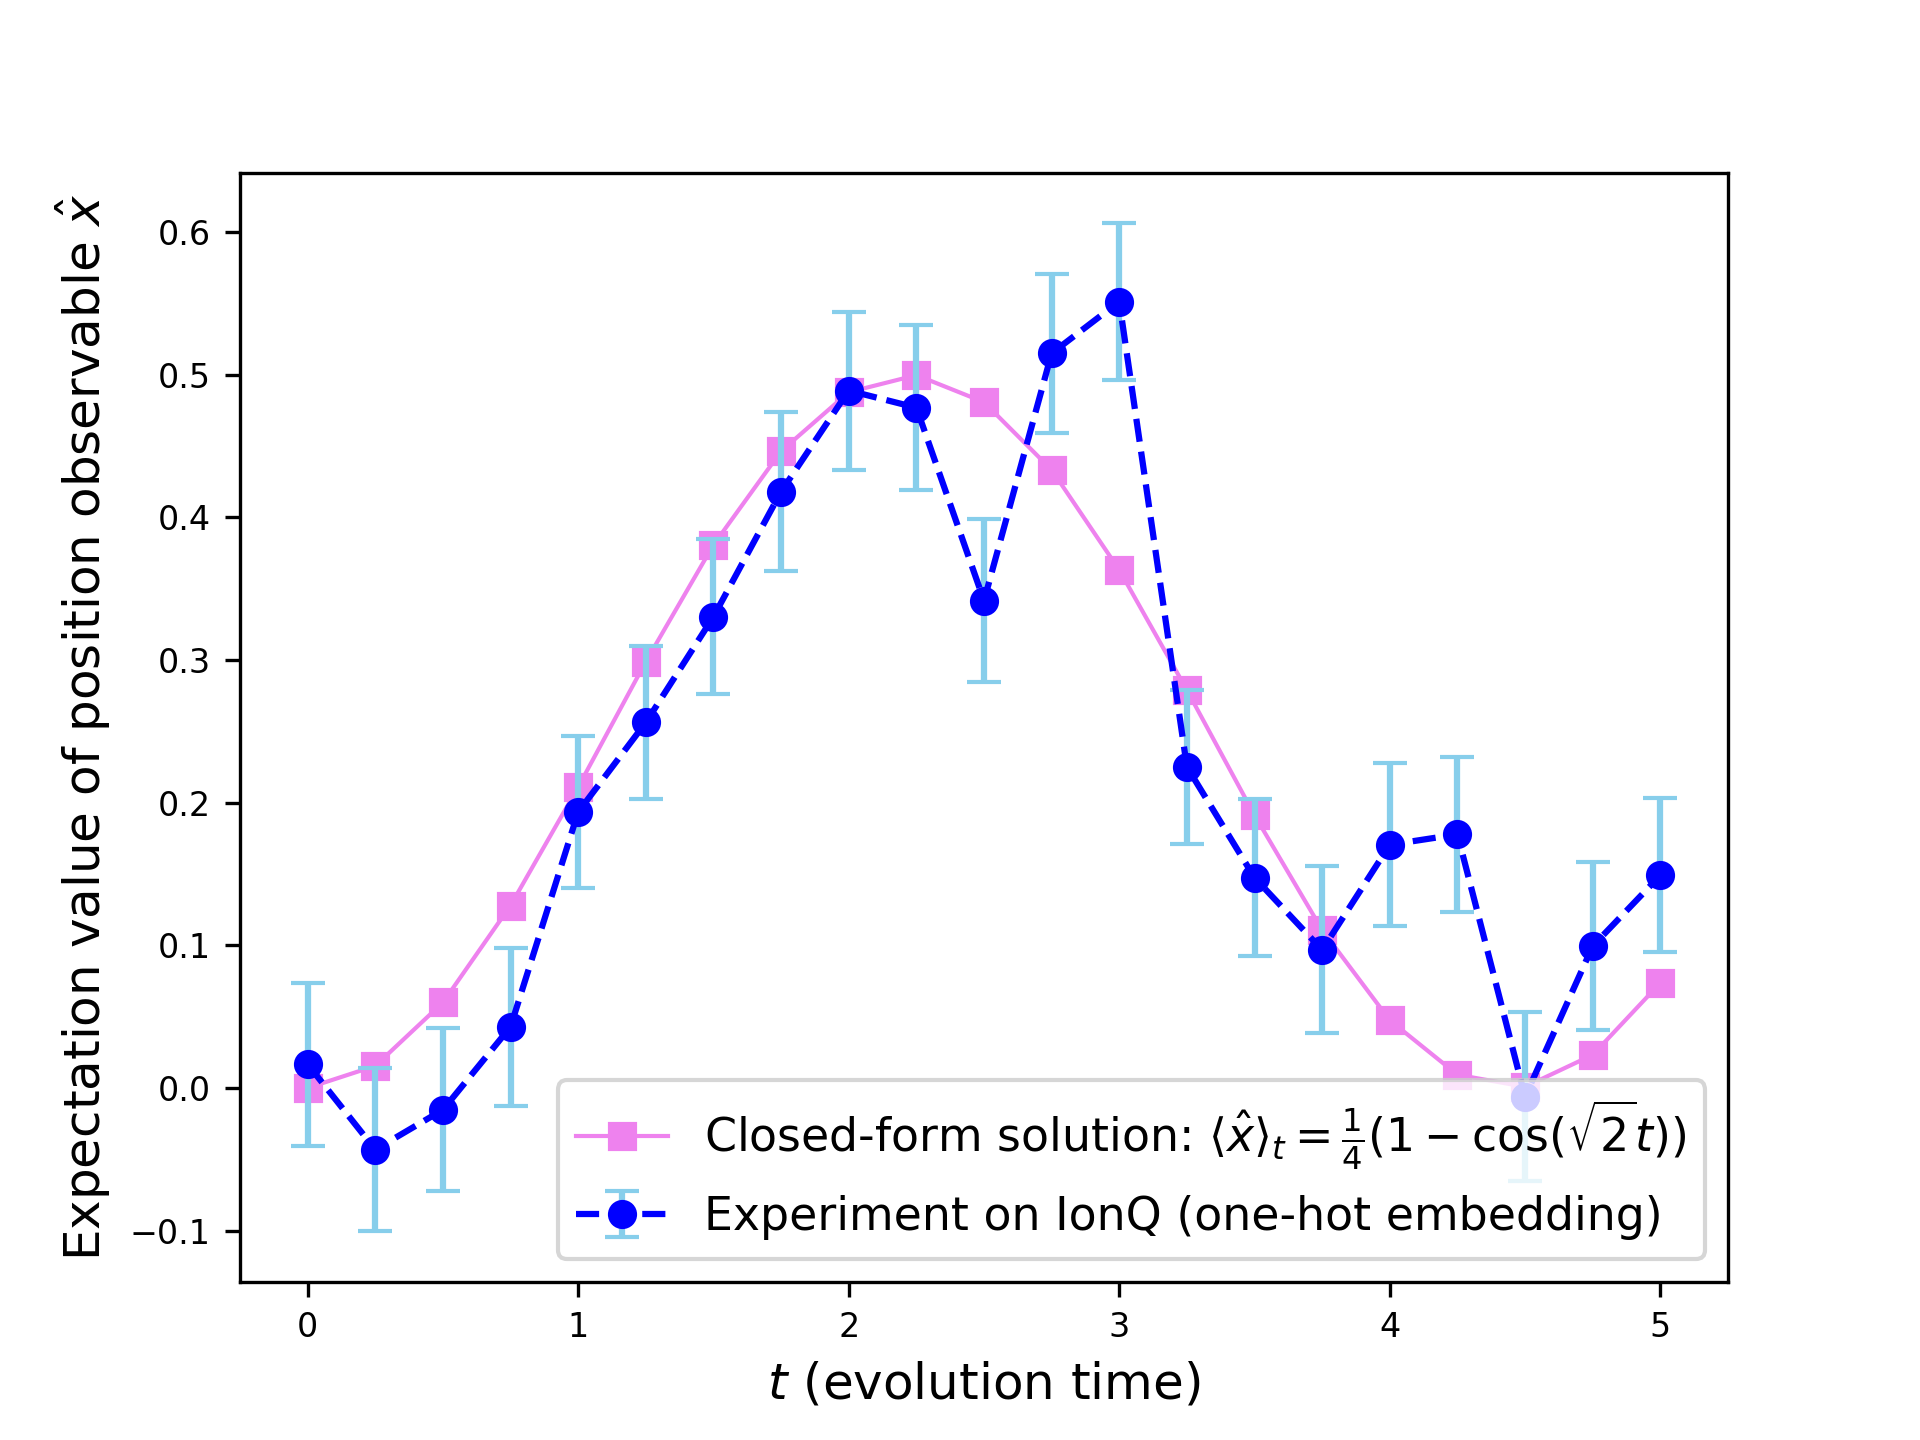
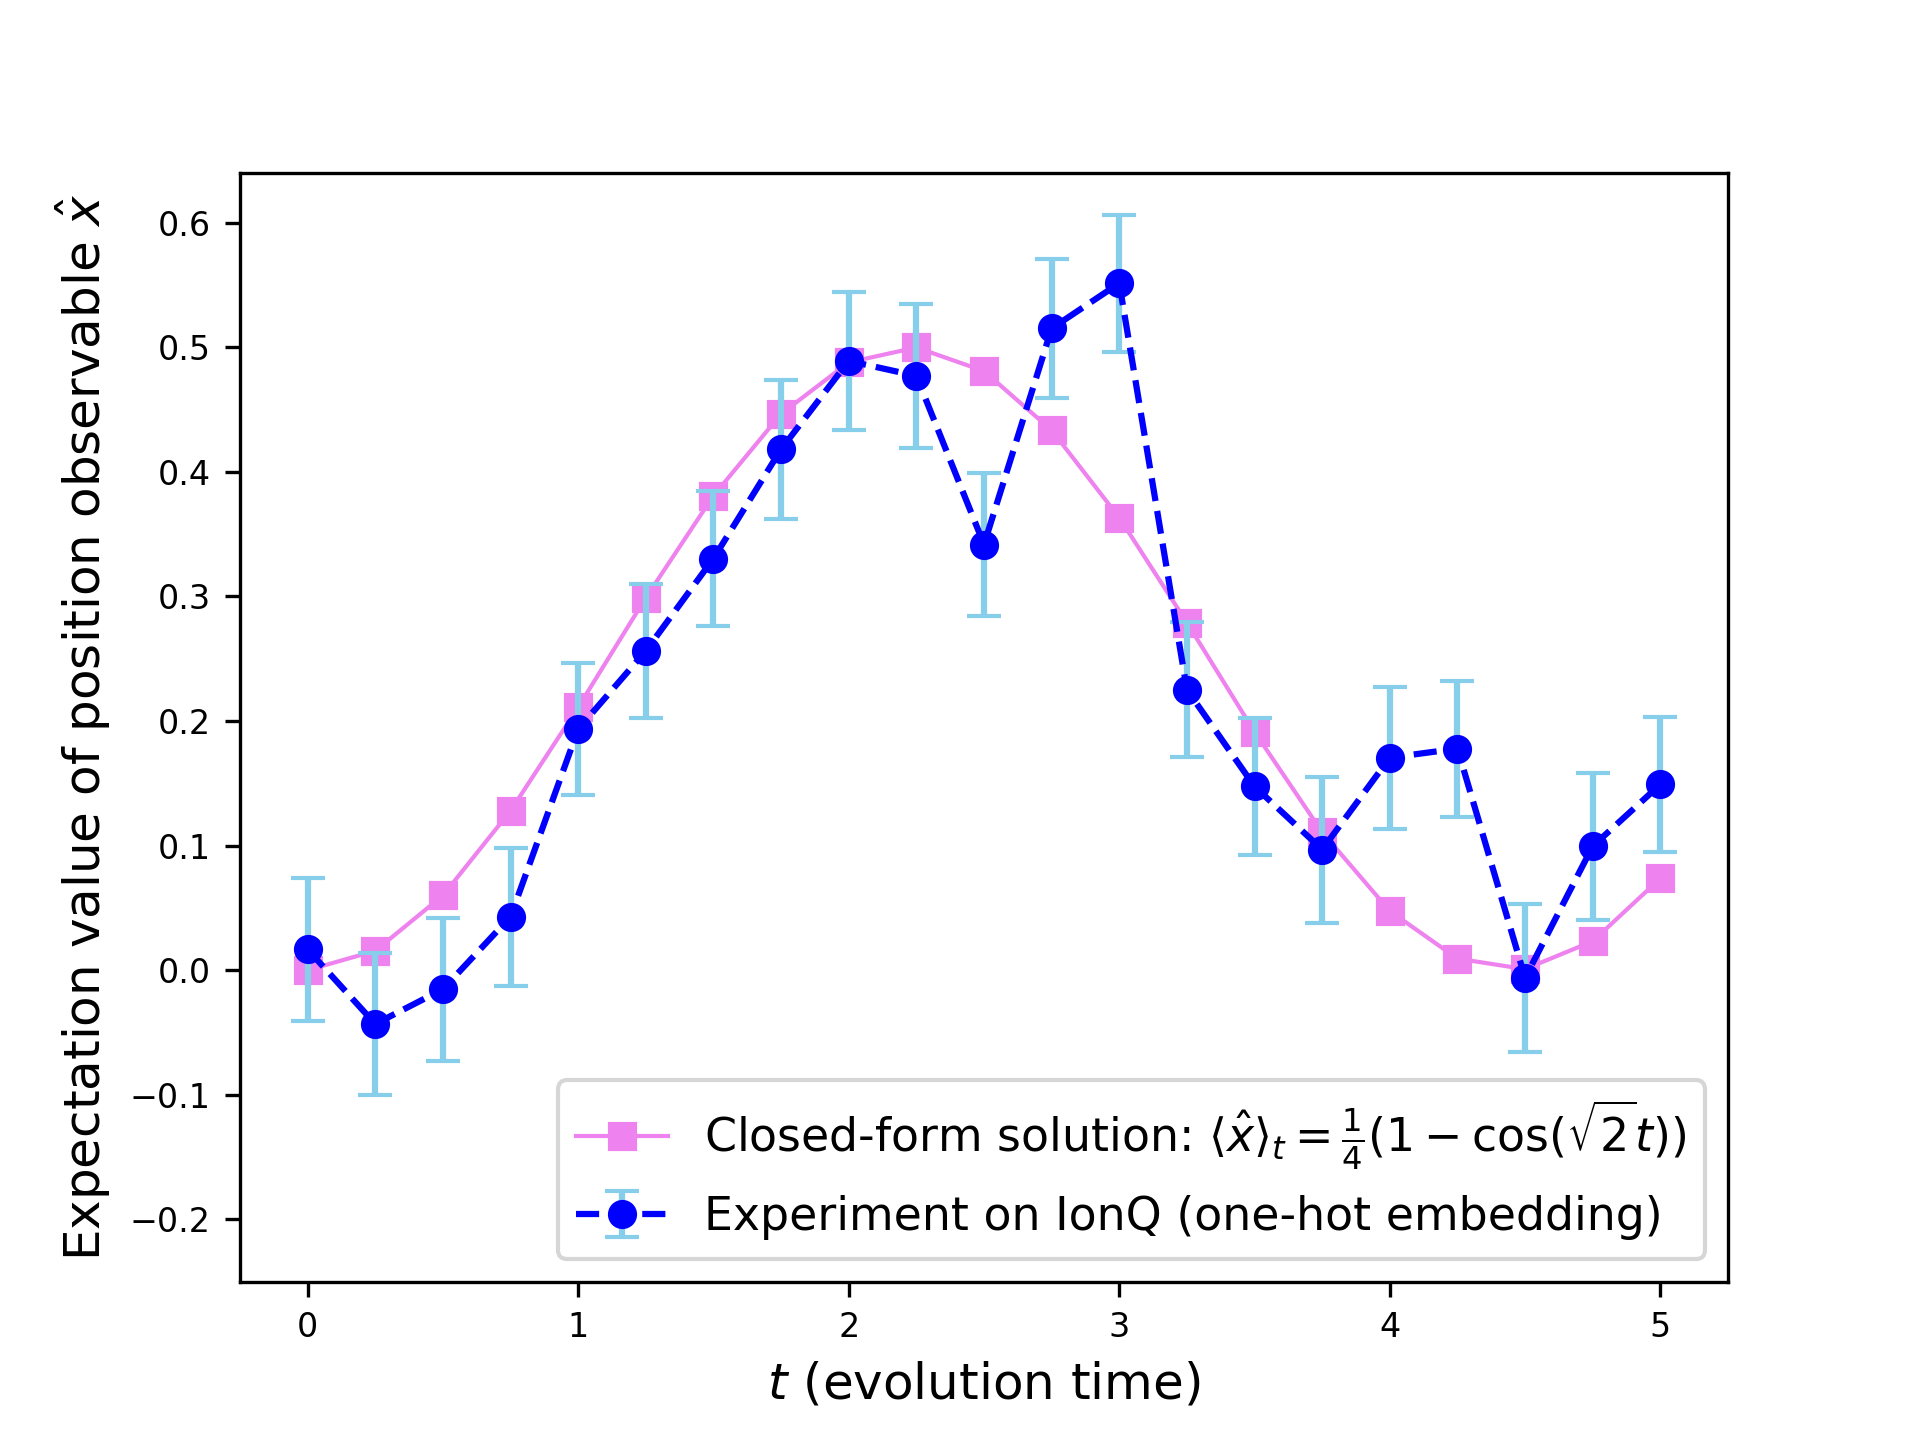
update figures

diff --git a/real_space_sim/IonQ/plot_ionq_position.py b/real_space_sim/IonQ/plot_ionq_position.py
@@ -9,32 +9,12 @@ b = -1/2
 num_time_points = 21
 t_vals = np.linspace(0, T, num_time_points)
 
-plt.figure()
-x = np.linspace(-2, 3, 100)
-potential = 0.5 * a * x **2 + b * x
-normalize_c = (1 / np.pi) ** 0.5
-init_state = normalize_c * np.exp(- x**2)
-plt.plot(x, potential, 'r--', label=r'Potential field: $f(x) = x^2 - \frac{1}{2}x$', linewidth=3)
-plt.plot(x, init_state, '-', color='navy', label='Initial wave packet (vacuum state)', linewidth=3)
-plt.xlabel('x', fontsize=14)
-plt.ylabel('y', fontsize=14)
-plt.xticks(fontsize=10)
-plt.yticks(fontsize=10)
-plt.legend(fontsize=12)
-bottom, top = plt.ylim()
-plt.vlines(x=0, ymin=bottom, ymax=top)
-plt.text(0.12,1.2, r"$\langle \hat{x} \rangle = 0$", fontsize=14)
-plt.savefig('real_space_potential.png', dpi=300)
-# plt.show()
-
-
 # Load plot data
 with np.load('data.npz') as data:
     expected_position_analytical = data['expected_position_analytical']
     ideal_data = data['x_obs_ham_ebd']
     ionq_data = data['x_obs_ionq']
     ionq_err = data['x_obs_ionq_err']
-
 
 #fig = plt.figure(figsize=(100/25.4, 100/25.4), dpi=300)
 # figure setup
@@ -50,5 +30,6 @@ plt.xlabel(r"$t$ (evolution time)", fontsize=12)
 plt.xticks(fontsize=8)
 plt.yticks(fontsize=8)
 plt.legend(fontsize=11)
+plt.ylim(-0.25, 0.64)
 plt.savefig('real_space_ionq.png', dpi=300)
 # plt.show()

diff --git a/real_space_sim/IonQ/plot_potential_function.py b/real_space_sim/IonQ/plot_potential_function.py
@@ -1,0 +1,29 @@
+import numpy as np
+import matplotlib.pyplot as plt
+import matplotlib.gridspec as gridspec
+
+
+T = 5
+a = 2
+b = -1/2
+num_time_points = 21
+t_vals = np.linspace(0, T, num_time_points)
+
+plt.figure()
+x = np.linspace(-1.5, 2.5, 128)
+potential = 0.5 * a * x **2 + b * x
+normalize_c = (1 / np.pi) ** 0.5
+init_state = normalize_c * np.exp(- x**2)
+plt.plot(x, potential, 'r--', label=r'Potential field: $f(x) = x^2 - \frac{1}{2}x$', linewidth=3)
+plt.plot(x, init_state, '-', color='navy', label='Initial wave packet (vacuum state)', linewidth=3)
+plt.xlabel('x', fontsize=14)
+plt.ylabel('y', fontsize=14)
+plt.xticks(fontsize=10)
+plt.yticks(fontsize=10)
+plt.legend(fontsize=12)
+plt.ylim(-0.15, 4)
+bottom, top = plt.ylim()
+plt.vlines(x=0, ymin=bottom, ymax=2.5)
+plt.text(-0.25,2.6, r"$\langle \hat{x} \rangle = 0$", fontsize=14)
+plt.savefig('real_space_potential.png', dpi=300)
+# plt.show()

diff --git a/real_space_sim/IonQ/plot_ionq_kinetic_energy.py b/real_space_sim/IonQ/plot_ionq_kinetic_energy.py
@@ -39,6 +39,7 @@ plt.ylabel(r"Expected kinetic energy $\frac{1}{2}\hat{p}^2$", fontsize=12)
 plt.xlabel(r"$t$ (evolution time)", fontsize=12)
 plt.xticks(fontsize=8)
 plt.yticks(fontsize=8)
+plt.ylim(0.15, 0.625)
 plt.legend(fontsize=11)
 plt.savefig('real_space_ionq_kinetic_energy.png', dpi=300)
 # plt.show()
